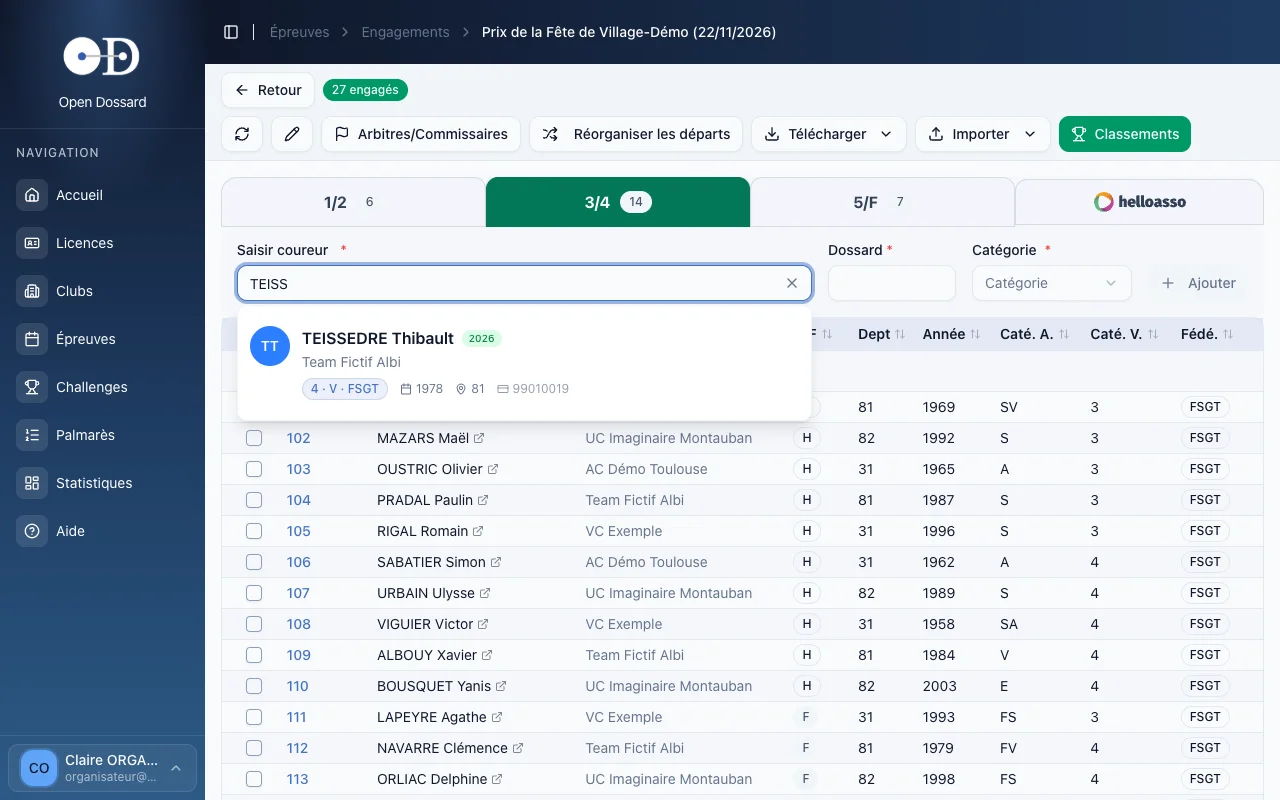
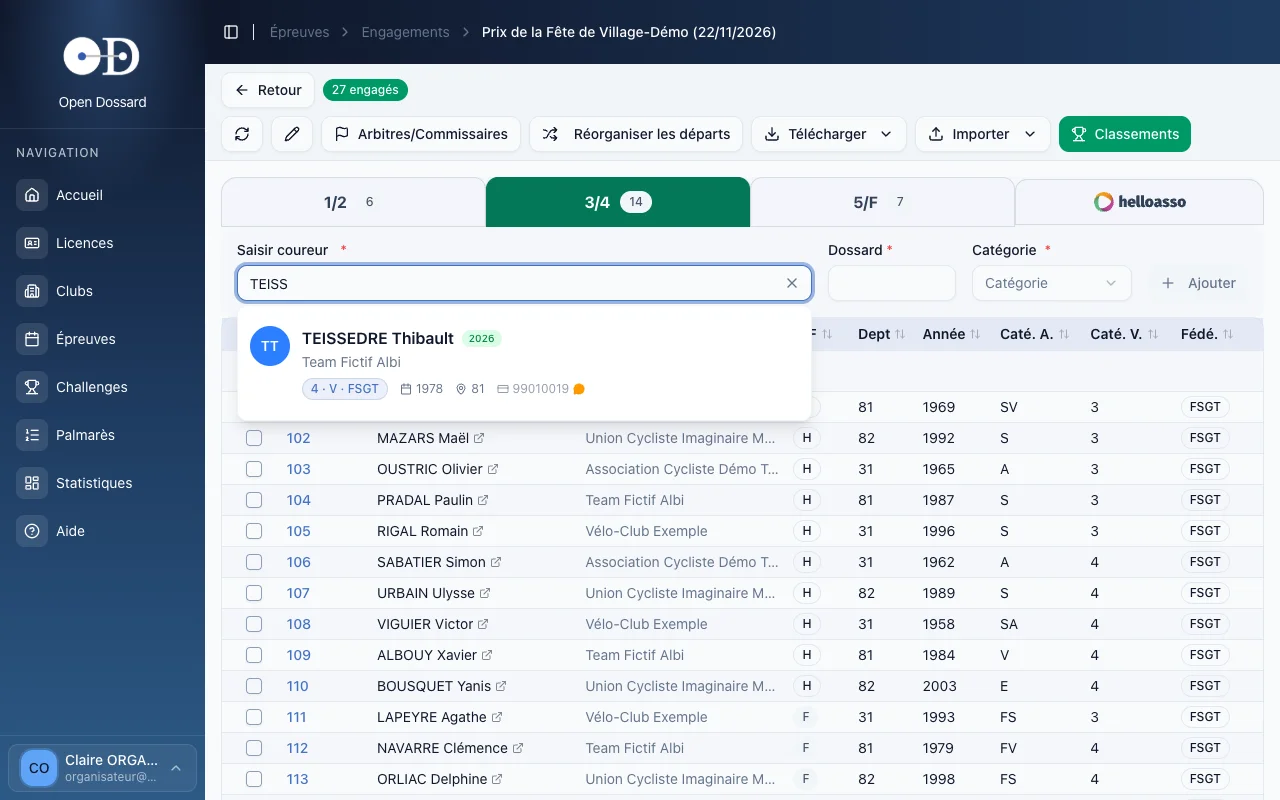
docs(guide): retours organisateurs sur clubs, duplication et engagements
- HelloAsso : l'inscription en ligne exige un compte Dossardeur et une fiche
  dans la base des licenciés (participation passée ou import eLicence FSGT)
- fiche club : pas d'acronyme dans le nom long, captures refaites avec des
  noms de clubs complets
- « case » remplacé par « case à cocher »
- épreuves : « Créer » et « Dupliquer » séparés, droits requis pour dupliquer
- engagements : pelotons libres et alerte de catégorie absente du départ

diff --git a/website/guide/epreuves.html b/website/guide/epreuves.html
@@ -93,14 +93,14 @@
         <div class="guide-summary">
           <div class="guide-summary-title"><i data-lucide="zap" class="w-4 h-4 text-primary"></i> En bref</div>
           <ul class="space-y-1.5 text-sm text-gray-600">
-            <li>• Une épreuve se crée depuis <strong>Épreuves</strong>, avec le bouton <strong>Créer une épreuve</strong> ou en dupliquant celle de l'an dernier.</li>
+            <li>• Une épreuve se crée depuis <strong>Épreuves</strong>, avec le bouton <strong>Créer une épreuve</strong>, ou en dupliquant l'une de vos épreuves de l'an dernier.</li>
             <li>• Elle se remplit en cinq onglets : Infos, Horaires &amp; Circuits, Tarifs, Medias, Lieu.</li>
             <li>• Pensez à cliquer sur <strong>Enregistrer</strong> après chaque série de modifications.</li>
           </ul>
         </div>
 
         <h2 id="liste">La liste des épreuves</h2>
-        <p>Dans le menu, cliquez sur <span class="guide-ui">Épreuves</span>. Les épreuves à venir apparaissent au-dessus de la ligne <strong>Aujourd'hui</strong>, les épreuves passées en dessous. Les cases <span class="guide-ui">Futures</span> et <span class="guide-ui">Passées</span>, les dates et les filtres de colonnes affinent la liste.</p>
+        <p>Dans le menu, cliquez sur <span class="guide-ui">Épreuves</span>. Les épreuves à venir apparaissent au-dessus de la ligne <strong>Aujourd'hui</strong>, les épreuves passées en dessous. Les cases à cocher <span class="guide-ui">Futures</span> et <span class="guide-ui">Passées</span>, les dates et les filtres de colonnes affinent la liste.</p>
         <figure class="guide-shot">
           <div class="guide-shot-frame">
             <img src="img/epreuve-liste.webp" alt="Liste des épreuves avec les colonnes engagements, classements, date, nom, lieu, club, fédération et type" class="screenshot w-full" loading="lazy" width="1280" height="800">
@@ -112,22 +112,39 @@
         <ul class="list-disc pl-6 space-y-1 text-gray-600 mb-4">
           <li>le crayon ouvre l'épreuve ;</li>
           <li><strong>« 24 Eng. »</strong> ouvre les <a href="engagements.html">engagements</a> et <strong>« Classer »</strong> (ou « 36 Class ») les <a href="classements.html">classements</a> ;</li>
-          <li>les icônes de fin de ligne permettent de <strong>dupliquer</strong> l'épreuve, de télécharger sa <strong>fiche épreuve</strong> en PDF ou de la <strong>supprimer</strong> (seulement si elle n'a encore aucun engagé ni paiement).</li>
+          <li>les icônes de fin de ligne permettent de <a href="#dupliquer"><strong>dupliquer</strong></a> l'épreuve, de télécharger sa <strong>fiche épreuve</strong> en PDF ou de la <strong>supprimer</strong> (seulement si elle n'a encore aucun engagé ni paiement).</li>
         </ul>
 
-        <h2 id="creer">Créer ou dupliquer une épreuve</h2>
+        <h2 id="creer">Créer une épreuve</h2>
         <ol class="guide-steps">
-          <li>Cliquez sur <span class="guide-ui">Créer une épreuve</span>, ou sur l'icône <strong>Dupliquer</strong> d'une épreuve existante.</li>
+          <li>Cliquez sur <span class="guide-ui">Créer une épreuve</span>, en haut à droite de la liste.</li>
           <li>Remplissez l'onglet <strong>Infos</strong> (voir ci-dessous). Les champs marqués d'une étoile rouge sont obligatoires.</li>
           <li>Cliquez sur <span class="guide-ui">Enregistrer</span> : l'épreuve est créée et les autres onglets deviennent pleinement utilisables (dépôt des fichiers GPX notamment).</li>
           <li>Complétez les horaires, les tarifs, le lieu et les médias, puis enregistrez à nouveau.</li>
         </ol>
 
+        <h2 id="dupliquer">Dupliquer une épreuve</h2>
+        <p>Pour une épreuve qui revient chaque année, partez de l'édition précédente plutôt que d'une fiche vide.</p>
+        <ol class="guide-steps">
+          <li>Dans la liste, sélectionnez <strong>une épreuve vous appartenant</strong>, par exemple celle de la saison précédente (cochez <span class="guide-ui">Passées</span> pour l'afficher).</li>
+          <li>Cliquez sur le pictogramme <span class="guide-ui"><i data-lucide="copy" class="inline w-3.5 h-3.5 align-[-2px]"></i> Dupliquer</span>, à droite de sa ligne, puis confirmez.</li>
+          <li>Une nouvelle épreuve s'ouvre, déjà remplie avec les informations de l'épreuve d'origine. Saisissez la <strong>nouvelle date</strong> et apportez vos éventuelles modifications.</li>
+          <li>Cliquez sur <span class="guide-ui">Enregistrer</span> : la nouvelle épreuve n'existe qu'à partir de ce moment.</li>
+        </ol>
+
+        <div class="guide-callout warn">
+          <div class="guide-callout-icon"><i data-lucide="lock"></i></div>
+          <div>
+            <div class="guide-callout-title">Vous devez avoir les droits sur l'épreuve dupliquée</div>
+            <p>Vous ne pouvez dupliquer que les épreuves <strong>qui vous appartiennent</strong>, c'est-à-dire organisées par un club rattaché à votre compte. L'enregistrement de la copie est refusé pour l'épreuve d'un autre club.</p>
+          </div>
+        </div>
+
         <div class="guide-callout tip">
           <div class="guide-callout-icon"><i data-lucide="copy"></i></div>
           <div>
             <div class="guide-callout-title">Gagnez du temps avec la duplication</div>
-            <p>Dupliquer l'épreuve de l'an dernier reprend toutes ses informations : horaires, tarifs, lieu, contacts. Seule la date est à ressaisir.</p>
+            <p>Dupliquer l'épreuve de l'an dernier reprend toutes ses informations : horaires, tarifs, lieu, contacts. Seule la date est à ressaisir, ainsi que les éventuelles modifications.</p>
           </div>
         </div>
 
@@ -155,13 +172,13 @@
         <h3>Contact et options</h3>
         <p>Le <strong>contact</strong> (nom, téléphone, e-mail, site web, Facebook) est affiché aux coureurs. Les <strong>options</strong> conditionnent qui peut s'engager :</p>
         <ul class="list-disc pl-6 space-y-1 text-gray-600 mb-4">
-          <li><span class="guide-ui">Ouvert aux autres fédérations</span> : sans cette case, seuls les licenciés de la fédération de l'épreuve peuvent être engagés ;</li>
+          <li><span class="guide-ui">Ouvert aux autres fédérations</span> : si cette case à cocher est décochée, seuls les licenciés de la fédération de l'épreuve peuvent être engagés ;</li>
           <li><span class="guide-ui">Ouvert aux non licenciés</span> : autorise l'engagement de coureurs sans licence ;</li>
           <li><span class="guide-ui">Compétition chronométrée</span> : ajoute la saisie des temps dans les classements.</li>
         </ul>
 
         <h3 id="paiement">Paiement en ligne via HelloAsso</h3>
-        <p>Si le club est <a href="club.html#helloasso">connecté à HelloAsso</a>, un encadré permet d'<strong>activer le paiement en ligne</strong> : les coureurs paient alors leur inscription directement depuis l'application Dossardeur.</p>
+        <p>Si le club est <a href="club.html#helloasso">connecté à HelloAsso</a>, un encadré permet d'<strong>activer le paiement en ligne</strong> : les coureurs paient alors leur inscription directement depuis l'application Dossardeur. Seuls ceux qui ont un compte Dossardeur <strong>et</strong> qui existent dans la base de données des licenciés y ont accès : voir <a href="club.html#helloasso">Qui peut s'inscrire en ligne ?</a></p>
         <figure class="guide-shot">
           <img src="img/epreuve-paiement-en-ligne.webp" alt="Encadré Paiement en ligne via HelloAsso activé, avec le statut Compte HelloAsso vérifié, puis l'encadré Notifications push" class="screenshot w-full" loading="lazy" width="1280" height="800">
           <figcaption>Le paiement en ligne activé, et l'envoi de notifications aux abonnés.</figcaption>

diff --git a/website/guide/club.html b/website/guide/club.html
@@ -94,7 +94,7 @@
           <div class="guide-summary-title"><i data-lucide="zap" class="w-4 h-4 text-primary"></i> En bref</div>
           <ul class="space-y-1.5 text-sm text-gray-600">
             <li>• Vous pouvez modifier la fiche des clubs rattachés à votre compte ; les autres sont en lecture seule.</li>
-            <li>• Connecter le club à HelloAsso permet aux coureurs de s'inscrire et de payer en ligne.</li>
+            <li>• Connecter le club à HelloAsso permet aux coureurs ayant un compte créé dans Dossardeur, et existant dans la base de données des licenciés, de s'inscrire et de payer en ligne.</li>
             <li>• La connexion se fait en quelques clics, avec le compte HelloAsso de l'association.</li>
           </ul>
         </div>
@@ -109,12 +109,12 @@
           <img src="img/club-liste.webp" alt="Liste des clubs avec la recherche, les filtres de pré-inscription et les boutons d'export" class="screenshot w-full" loading="lazy" width="1280" height="800">
           <figcaption>La liste des clubs.</figcaption>
         </figure>
-        <p>Les boutons au-dessus du tableau filtrent les clubs selon leur connexion à HelloAsso : <span class="guide-ui">Pré-inscription possible</span> (club connecté) ou <span class="guide-ui">Pré-inscription non configurée</span>. La case <span class="guide-ui">Clubs organisateurs uniquement</span> ne garde que les clubs qui organisent des épreuves.</p>
+        <p>Les boutons au-dessus du tableau filtrent les clubs selon leur connexion à HelloAsso : <span class="guide-ui">Pré-inscription possible</span> (club connecté) ou <span class="guide-ui">Pré-inscription non configurée</span>. La case à cocher <span class="guide-ui">Clubs organisateurs uniquement</span> ne garde que les clubs qui organisent des épreuves.</p>
 
         <h2 id="fiche">Compléter la fiche du club</h2>
         <p>La fiche regroupe :</p>
         <ul class="list-disc pl-6 space-y-1 text-gray-600 mb-4">
-          <li>le <strong>nom court</strong> (sigle) et le <strong>nom long</strong>, obligatoire ;</li>
+          <li>le <strong>nom court</strong> (sigle) et le <strong>nom long</strong>, obligatoire. <strong>N'utilisez pas d'acronyme dans le nom long</strong> : écrivez « Association Cycliste Démo Toulouse » ou « Vélo-Club Exemple », et non « AC Démo Toulouse » ou « VC Exemple » ;</li>
           <li>le <strong>nom eLicence</strong>, tel qu'il apparaît dans les fichiers de licences de la fédération ;</li>
           <li>l'<strong>identifiant HelloAsso</strong> de l'association (voir plus bas) ;</li>
           <li>le <strong>département</strong>, obligatoire. La fédération est affichée à titre indicatif.</li>
@@ -122,7 +122,7 @@
         <p>Cliquez sur <span class="guide-ui">Enregistrer</span> en haut à droite. Le lien en bas de fiche affiche toutes les épreuves organisées par le club.</p>
         <figure class="guide-shot">
           <div class="guide-shot-frame">
-            <img src="img/club-fiche.webp" alt="Fiche du club VC Exemple avec ses informations et le bouton Connecter à HelloAsso en haut à droite" class="screenshot w-full" loading="lazy" width="1280" height="800">
+            <img src="img/club-fiche.webp" alt="Fiche du club Vélo-Club Exemple avec ses informations et le bouton Connecter à HelloAsso en haut à droite" class="screenshot w-full" loading="lazy" width="1280" height="800">
             <span class="guide-highlight" style="left:73.4%;top:8.6%;width:16.1%;height:5.3%"></span>
           </div>
           <figcaption>La fiche du club. Le bouton « Connecter à HelloAsso » est encadré.</figcaption>
@@ -138,6 +138,19 @@
 
         <h2 id="helloasso">Connecter le club à HelloAsso</h2>
         <p>HelloAsso encaisse les inscriptions en ligne pour le compte de votre association. Le service est <strong>gratuit</strong> pour le club : HelloAsso prend en charge les frais de transaction, et vit des contributions volontaires laissées par les payeurs.</p>
+
+        <div class="guide-callout warn">
+          <div class="guide-callout-icon"><i data-lucide="user-round-check"></i></div>
+          <div>
+            <div class="guide-callout-title">Qui peut s'inscrire en ligne ?</div>
+            <p>Le paiement en ligne n'est proposé qu'aux coureurs qui remplissent <strong>deux conditions</strong> :</p>
+            <ul class="list-disc pl-6 space-y-1 mt-2">
+              <li>avoir un <strong>compte créé dans l'application Dossardeur</strong> ;</li>
+              <li><strong>exister dans la base de données des licenciés</strong> d'Open Dossard (menu <a href="licencies.html">Licences</a>).</li>
+            </ul>
+            <p class="mt-2">Un coureur figure dans cette base s'il a <strong>déjà participé à une épreuve</strong>, ou si sa licence a été <strong>créée automatiquement par l'import des données eLicence</strong> (FSGT). Un coureur absent de la base ne peut pas se pré-inscrire en ligne : créez d'abord sa fiche dans <a href="licencies.html#ajouter">Licences</a>.</p>
+          </div>
+        </div>
 
         <h3>Avant de commencer</h3>
         <ul class="list-disc pl-6 space-y-1 text-gray-600 mb-4">

diff --git a/website/guide/engagements.html b/website/guide/engagements.html
@@ -111,7 +111,7 @@
         <ol class="guide-steps">
           <li>Cliquez sur l'onglet du <strong>départ</strong> concerné.</li>
           <li>Dans <span class="guide-ui">Saisir coureur</span>, tapez le début du nom, du prénom ou le numéro de licence, puis choisissez le coureur dans la liste proposée.</li>
-          <li>Saisissez son <strong>numéro de dossard</strong>. La <strong>catégorie</strong> est reprise de sa licence : modifiez-la si besoin.</li>
+          <li>Saisissez son <strong>numéro de dossard</strong>. Le champ <span class="guide-ui">Catégorie</span> est repris de sa licence : vérifiez qu'il correspond à l'une des <a href="#pelotons">catégories du départ</a>, et modifiez-le si besoin.</li>
           <li>Cliquez sur <span class="guide-ui">Ajouter</span>. Le coureur apparaît dans la liste et le compteur de l'onglet augmente.</li>
         </ol>
         <figure class="guide-shot">
@@ -124,6 +124,18 @@
           <div>
             <div class="guide-callout-title">Coureur introuvable ?</div>
             <p>Créez d'abord sa fiche dans <a href="licencies.html#ajouter">Licences</a>, puis revenez l'engager. Pour un coureur sans licence, l'épreuve doit être <a href="epreuves.html#infos">ouverte aux non licenciés</a>.</p>
+          </div>
+        </div>
+
+        <h3 id="pelotons">Des pelotons à votre main</h3>
+        <p>Vous n'êtes pas limité aux catégories de la fédération : vous pouvez créer les <strong>pelotons de votre choix</strong> (« 40-50 ans », « Senior 1 », « Senior 2 »…) avec <a href="#reorganiser">Réorganiser les départs</a>. Chaque départ regroupe une ou plusieurs catégories.</p>
+        <p>Lors de l'engagement, le champ <span class="guide-ui">Catégorie</span> doit contenir <strong>l'une des catégories définies pour le départ</strong>. Dans la liste déroulante, vos catégories apparaissent en premier, sous <strong>Mes Catés</strong>, avant celles de la fédération.</p>
+
+        <div class="guide-callout warn">
+          <div class="guide-callout-icon"><i data-lucide="circle-alert"></i></div>
+          <div>
+            <div class="guide-callout-title">Alerte : catégorie absente du départ</div>
+            <p>Si un coureur est engagé dans une catégorie qui n'a pas été définie pour le départ, sa ligne passe sur <strong>fond rouge</strong> et une icône d'alerte s'affiche dans la colonne <strong>Caté. V.</strong> : « Attention, cette catégorie n'existe pas dans cette course ». Désengagez le coureur et réengagez-le dans la bonne catégorie, ou ajoutez cette catégorie au départ.</p>
           </div>
         </div>
 
@@ -154,10 +166,11 @@
         </div>
 
         <h3>Désengager</h3>
-        <p>Cochez un ou plusieurs coureurs, puis cliquez sur <span class="guide-ui">Désengager</span>. Un coureur déjà classé, ou marqué abandon, ne peut pas être désengagé : sa case n'est pas proposée.</p>
+        <p>Cochez un ou plusieurs coureurs, puis cliquez sur <span class="guide-ui">Désengager</span>. Un coureur déjà classé, ou marqué abandon, ne peut pas être désengagé : sa case à cocher n'est pas proposée.</p>
 
         <h2 id="en-ligne">Pré-inscriptions payées en ligne</h2>
         <p>Si le <a href="epreuves.html#paiement">paiement en ligne</a> est activé, les coureurs se pré-inscrivent et paient depuis l'application Dossardeur. Dès le premier paiement, un onglet <strong>HelloAsso</strong> apparaît à droite des départs.</p>
+        <p>Seuls les coureurs qui ont un compte Dossardeur <strong>et</strong> qui existent dans la base de données des licenciés peuvent se pré-inscrire : voir <a href="club.html#helloasso">Qui peut s'inscrire en ligne ?</a></p>
         <figure class="guide-shot">
           <img src="img/engagements-paiements.webp" alt="Onglet HelloAsso avec la recette, cinq paiements payés et un paiement en attente, et les colonnes statut, participant, dates, montant, tarif et payeur" class="screenshot w-full" loading="lazy" width="1280" height="800">
           <figcaption>L'onglet HelloAsso : la recette et le détail des paiements.</figcaption>

diff --git a/website/guide/demarrer.html b/website/guide/demarrer.html
@@ -121,12 +121,12 @@
         <ol class="guide-steps">
           <li>Ouvrez <a href="https://app.opendossard.com" target="_blank" rel="noopener">app.opendossard.com</a> dans votre navigateur, sur ordinateur, tablette ou téléphone.</li>
           <li>Saisissez votre <strong>adresse email</strong> et votre <strong>mot de passe</strong>.</li>
-          <li>Cochez <span class="guide-ui">Se souvenir de moi</span> si vous êtes sur votre appareil personnel : vous resterez connecté après la fermeture du navigateur. Sans cette case, la session se termine à la fermeture du navigateur.</li>
+          <li>Cochez <span class="guide-ui">Se souvenir de moi</span> si vous êtes sur votre appareil personnel : vous resterez connecté après la fermeture du navigateur. Si cette case à cocher est décochée, la session se termine à la fermeture du navigateur.</li>
           <li>Cliquez sur <span class="guide-ui">Se connecter</span>.</li>
         </ol>
         <figure class="guide-shot">
           <div class="guide-shot-frame">
-            <img src="img/demarrer-connexion.webp" alt="Écran de connexion d'Open Dossard avec les champs adresse email et mot de passe, la case Se souvenir de moi et le bouton Se connecter" class="screenshot w-full" loading="lazy" width="1280" height="800">
+            <img src="img/demarrer-connexion.webp" alt="Écran de connexion d'Open Dossard avec les champs adresse email et mot de passe, la case à cocher Se souvenir de moi et le bouton Se connecter" class="screenshot w-full" loading="lazy" width="1280" height="800">
             <span class="guide-highlight" style="left:53.4%;top:58.6%;width:11.8%;height:3.6%"></span>
           </div>
           <figcaption>L'écran de connexion. Le lien « Mot de passe oublié ? » est encadré.</figcaption>

diff --git a/website/guide/challenges.html b/website/guide/challenges.html
@@ -105,7 +105,7 @@
           <li>Sur la carte du challenge, cliquez sur <span class="guide-ui">Voir le classement</span>. Le lien <span class="guide-ui">Règlement</span> affiche ses règles.</li>
         </ol>
         <figure class="guide-shot">
-          <img src="img/challenges-liste.webp" alt="Liste des challenges avec le challenge d'automne du VC Exemple en cours, sur deux courses" class="screenshot w-full" loading="lazy" width="1280" height="800">
+          <img src="img/challenges-liste.webp" alt="Liste des challenges avec le challenge d'automne du Vélo-Club Exemple en cours, sur deux courses" class="screenshot w-full" loading="lazy" width="1280" height="800">
           <figcaption>Les challenges en cours.</figcaption>
         </figure>
 
